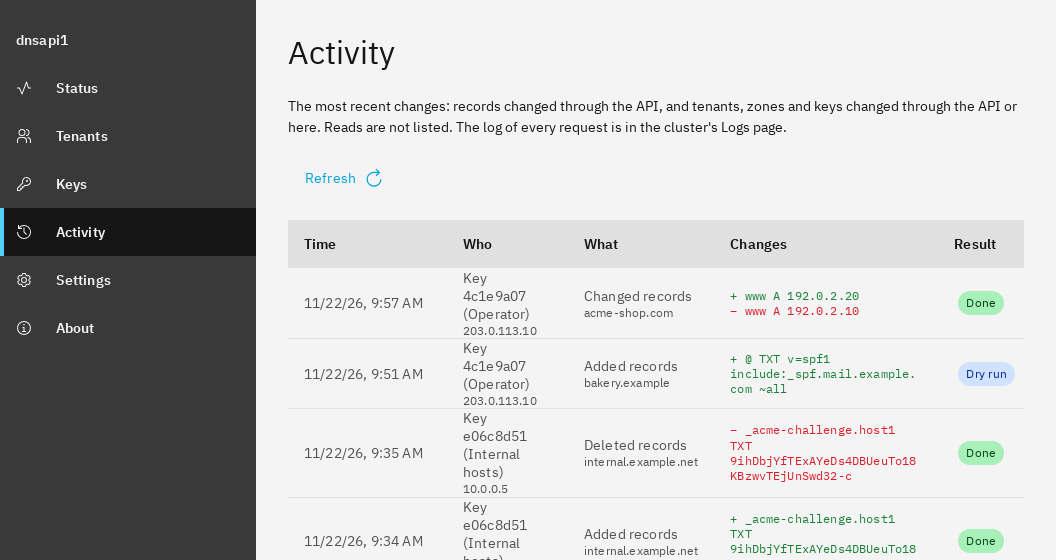
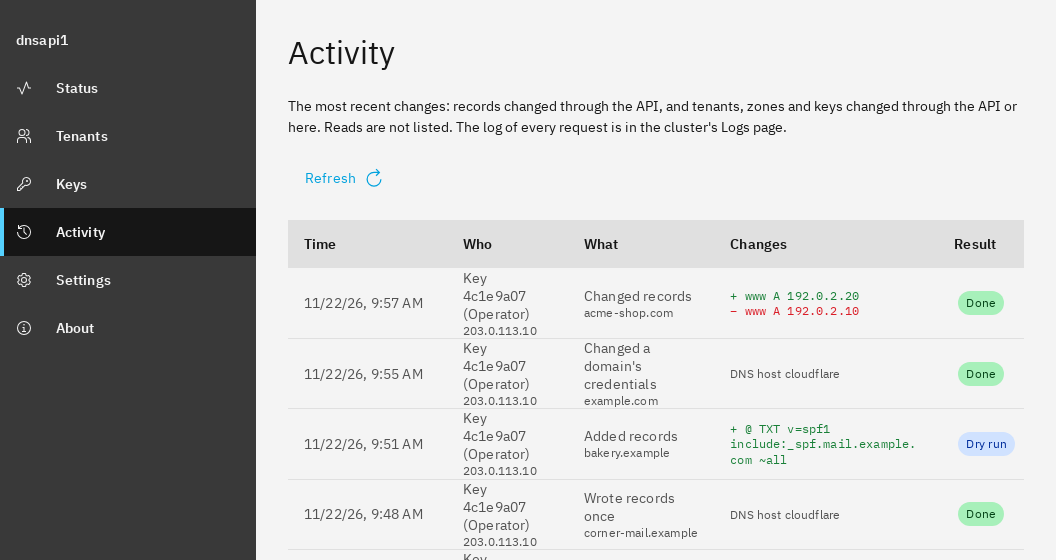
docs: retake the Tenants dialog and Activity pictures
The Tenants dialog shows a zone added through the API with its tag, and
the Activity page a changed-credentials and a one-shot entry. The UI
harness makes the unassigned example.com its hosted zone so that the
dialog the guide pictures offers it.

diff --git a/ui/dev/server.py b/ui/dev/server.py
@@ -56,7 +56,7 @@ ZONES = {
     "internal.example.net": ("hetzner", False),
 }
 # Added by the operator's portal with the customer's credentials (POST /v1/zones).
-HOSTED = {"bakery.example"}
+HOSTED = {"example.com"}
 SETTINGS = {"host": HOST, "lets_encrypt": True, "ip_allowlist": [],
             "rate_limit": 60, "publish_host_record": True, "revoke_cleartext_keys": True}
 # EXPOSED=1 shows the Status page's notice about a key revoked for being sent over plain HTTP
@@ -99,6 +99,8 @@ def seed():
         {**api, "time": stamp(3), "key": "4c1e9a07", "owner": "operator", "tenant": "t3f9a21c0",
          "action": "apply-changes", "zone": "acme-shop.com", "add": ["www A 192.0.2.20"],
          "remove": ["www A 192.0.2.10"]},
+        {**api, "time": stamp(5), "key": "4c1e9a07", "owner": "operator", "action": "update-zone",
+         "zone": "example.com", "provider": "cloudflare", "tenant": "", "result": "ok"},
         {**api, "time": stamp(9), "key": "4c1e9a07", "owner": "operator", "tenant": "t81c0d4e7",
          "action": "append-records", "zone": "bakery.example",
          "add": ["@ TXT v=spf1 include:_spf.mail.example.com ~all"], "remove": [], "result": "dry-run"},
@@ -107,12 +109,10 @@ def seed():
         {**api, "time": stamp(14), "key": "4c1e9a07", "owner": "operator", "tenant": "",
          "action": "append-records", "zone": "corner-mail.example",
          "add": ["@ TXT v=spf1 include:_spf.mail.example.com ~all"], "remove": []},
-        {**api, "time": stamp(5), "key": "4c1e9a07", "owner": "operator", "action": "update-zone",
-         "zone": "bakery.example", "provider": "powerdns", "tenant": "t81c0d4e7", "result": "ok"},
         {**api, "time": stamp(20), "key": "4c1e9a07", "owner": "operator", "action": "add-zone",
-         "zone": "bakery.example", "provider": "powerdns", "tenant": "t81c0d4e7", "result": "ok"},
+         "zone": "example.com", "provider": "cloudflare", "tenant": "", "result": "ok"},
         {**api, "time": stamp(21), "key": "4c1e9a07", "owner": "operator", "action": "add-zone",
-         "zone": "bakery.example", "provider": "powerdns", "tenant": "t81c0d4e7", "result": "dry-run"},
+         "zone": "example.com", "provider": "cloudflare", "tenant": "", "result": "dry-run"},
         {**api, "time": stamp(25), "key": "e06c8d51", "owner": "t5be20a93", "tenant": "t5be20a93",
          "address": "10.0.0.5", "action": "delete-records", "zone": "internal.example.net", "add": [],
          "remove": ["_acme-challenge.host1 TXT 9ihDbjYfTExAYeDs4DBUeuTo18KBzwvTEjUnSwd32-c"]},

diff --git a/docs/USER-GUIDE.md b/docs/USER-GUIDE.md
@@ -141,7 +141,7 @@ all of this through the API with an operator key.
 
 ![The Tenants page](images/tenants.png)
 
-![Editing a tenant: its zones, one of them with the ACME preset only ("Some records")](images/tenant-edit.png)
+![Editing a tenant: its zones, one with the ACME preset only ("Some records"), and one the portal added through the API](images/tenant-edit.png)
 
 From the command line:
 
